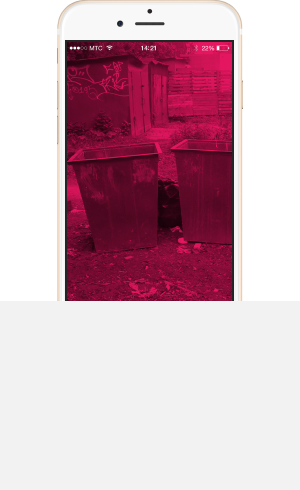
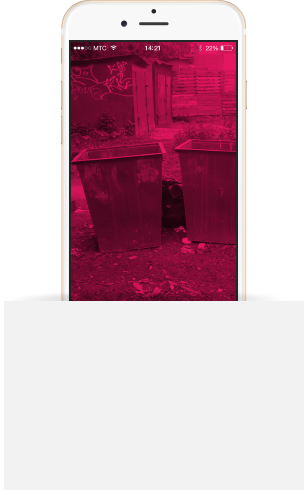
16.01.2021 homework

diff --git a/source/sass/block/advantages.scss b/source/sass/block/advantages.scss
@@ -101,6 +101,7 @@
     min-height: 250px;
     width: 940px;
     text-align: center;
+    padding-top: 46px;
     z-index: 1;
   }
 }
@@ -149,6 +150,11 @@
 
 .advantages__list-image {
   list-style-type: none;
+
+  @media (min-width: $desktop-width) {
+    height: 304px;
+    padding: 0;
+  }
 }
 
 .advantages__item-image-one {
@@ -183,17 +189,17 @@
 
   @media (min-width: $tablet-width) {
     display: none;
+  }
 
-    @media (min-width: $desktop-width) {
-      display: block;
-      height: 254px;
-    }
+  @media (min-width: $desktop-width) {
+    display: block;
   }
 }
 
 @media (min-width: $desktop-width) {
   .advantages__list-image-block {
     order: 1;
+    text-align: center;
   }
 
   .advantages__list {

diff --git a/source/index.html b/source/index.html
@@ -545,7 +545,7 @@
                     srcset="img/desktop-left-phone@2x.png 2x" alt="Фото преимущества">
                 </picture>
                 <picture>
-                  <img class="advantages__image-maddle" src="img/desktop-middle-phone.png"
+                  <img class="advantages__image-middle" src="img/desktop-middle-phone.png"
                     srcset="img/desktop-middle-phone@2x.png 2x" alt="Фото преимущества">
                 </picture>
                 <picture>
